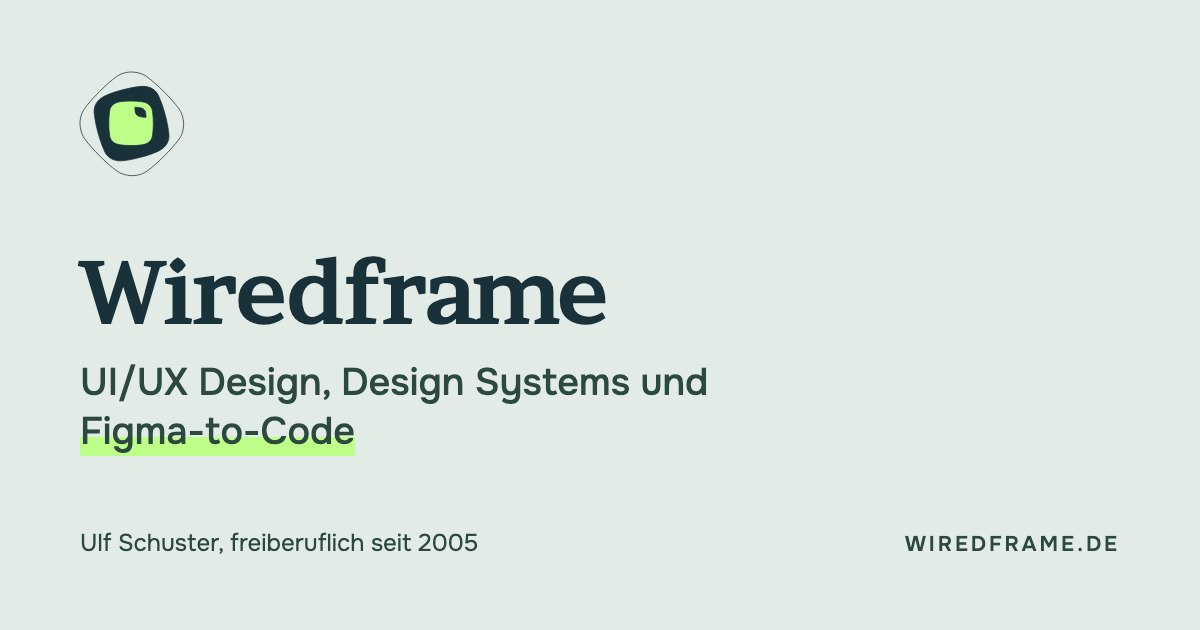
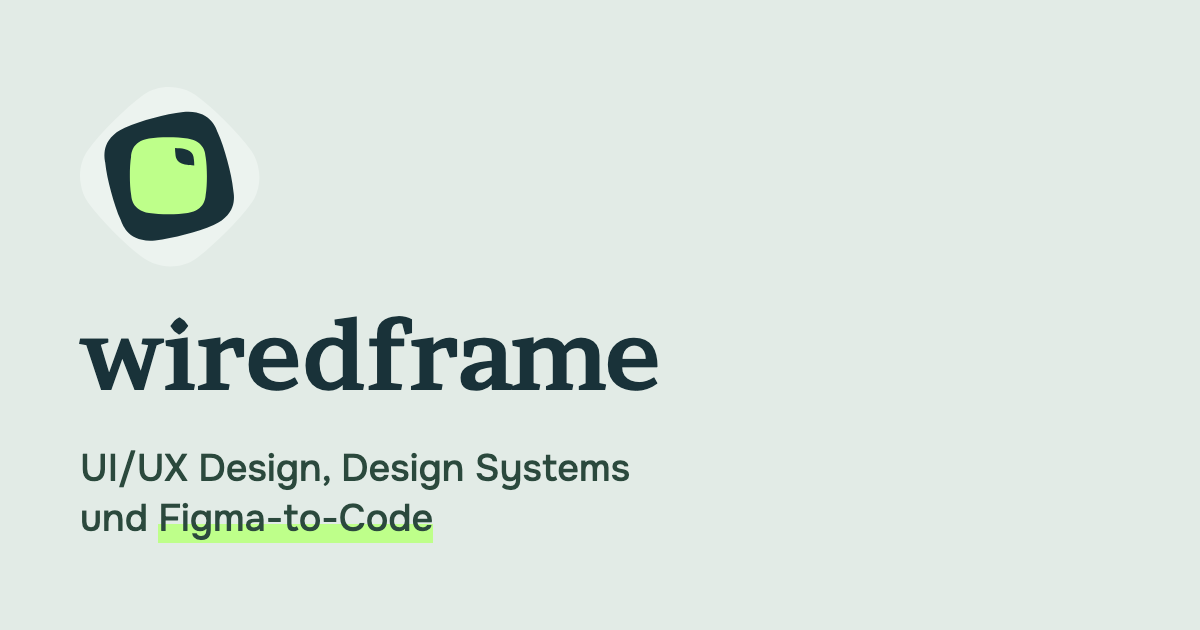
Rebuild OG image around the signet without the footer line

Changed region(s): [[0.0617, 0.1206, 0.5858, 0.8746], [0.74, 0.8444, 0.925, 0.8746]]

diff --git a/scripts/og-image.html b/scripts/og-image.html
@@ -25,6 +25,7 @@
 			--color-accent: #beff8a;
 			--color-ink: #2b493d;
 			--color-canvas: #e2ebe6;
+			--color-white: #ecf3ef;
 		}
 
 		html,
@@ -42,33 +43,40 @@
 			font-family: 'Onest', system-ui, sans-serif;
 			display: flex;
 			flex-direction: column;
-			justify-content: space-between;
+			justify-content: space-evenly;
 			padding: 72px 80px;
 			box-sizing: border-box;
 		}
 
 		.signet {
-			width: 104px;
-			height: 104px;
+			width: 180px;
+			height: 180px;
 			display: block;
-			overflow: visible;
 		}
 
 		/* Dieselbe Rollenverteilung wie auf der Startseite, nur ohne Animation:
-		   Teil 1 liegt in der Grundfläche, 2 und 4 dunkel, 3 im Akzent. */
-		.teil--1 { fill: var(--color-canvas); }
+		   Teil 1 liegt in der Grundfläche, 2 und 4 dunkel, 3 im Akzent.
+
+		   Keine Kontur: auf der Startseite zieht die Animation den Strich nur
+		   zum Zeichnen und blendet ihn beim Füllen wieder aus. Der Endzustand,
+		   und nur der gehört hierher, ist reine Fläche. */
+		.teil--1 {
+			fill: var(--color-white);
+		}
+
 		.teil--2,
-		.teil--4 { fill: var(--color-primary); }
-		.teil--3 { fill: var(--color-accent); }
-		.signet path { stroke: var(--color-primary); stroke-width: 0.5; }
+		.teil--4 {
+			fill: var(--color-primary);
+		}
+
+		.teil--3 {
+			fill: var(--color-accent);
+		}
 
 		h1 {
-			font-family: 'Brawler', Georgia, serif;
-			font-weight: 700;
-			font-size: 88px;
-			line-height: 1.05;
-			letter-spacing: -0.015em;
-			margin: 0 0 18px;
+			font-family: 'Brawler', serif;
+			font-size: 96px;
+			line-height: 0.2;
 		}
 
 		.claim {
@@ -77,7 +85,7 @@
 			font-weight: 500;
 			color: var(--color-ink);
 			margin: 0;
-			max-width: 26ch;
+			max-width: 23ch;
 		}
 
 		/* Der Begriff darf nicht umbrechen: die Auszeichnung liefe sonst
@@ -86,21 +94,6 @@
 			font-weight: 500;
 			white-space: nowrap;
 			background: linear-gradient(transparent 62%, var(--color-accent) 62%);
-		}
-
-		footer {
-			display: flex;
-			justify-content: space-between;
-			align-items: baseline;
-			font-size: 24px;
-			color: var(--color-ink);
-		}
-
-		footer .adresse {
-			font-weight: 600;
-			letter-spacing: 0.14em;
-			text-transform: uppercase;
-			font-size: 21px;
 		}
 	</style>
 </head>
@@ -116,16 +109,8 @@
 		<path class="teil--4" fill-rule="evenodd" clip-rule="evenodd"
 			d="M36.5886 25.8022C36.4865 25.0512 36.439 24.2109 36.426 23.3497C37.6814 23.4008 38.9584 23.5123 40.039 23.726C43.6663 24.4281 43.5821 27.1857 43.6383 27.6015C43.7397 28.3526 43.7879 29.1929 43.7994 30.054C42.5447 30.003 41.2685 29.8929 40.1879 29.6778C36.5606 28.9756 36.6447 26.2181 36.5886 25.8022Z" />
 	</svg>
-
-	<div>
-		<h1>Wiredframe</h1>
-		<p class="claim">UI/UX Design, Design Systems und <b>Figma-to-Code</b></p>
-	</div>
-
-	<footer>
-		<span>Ulf Schuster, freiberuflich seit 2005</span>
-		<span class="adresse">wiredframe.de</span>
-	</footer>
+	<h1>wiredframe</h1>
+	<p class="claim">UI/UX Design, Design Systems und <b>Figma-to-Code</b></p>
 </body>
 
 </html>
